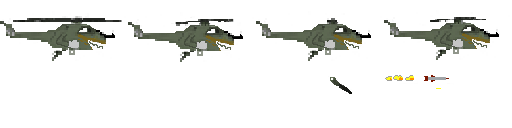
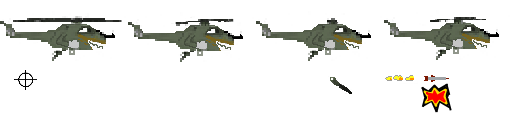
Missiles explode. Reticule added
Missiles now explode when they reach where they were targeted. Also, if
there is a balloon in a certain radius around the explosion, then the
balloon will pop. Reticule added that follows the player's mouse.

Changed region(s): [[0.8125, 0.6562, 0.9062, 0.875], [0.0312, 0.5625, 0.0938, 0.6875]]

diff --git a/heli_attack.js b/heli_attack.js
@@ -44,6 +44,8 @@ var Game = function (canvasId) {
   	this.targets = [];
   	this.missiles = [];
 	
+	this.mouse_x;
+	this.mouse_y;
 }
 	
 Game.prototype = {
@@ -55,10 +57,26 @@ Game.prototype = {
 		
 		this.heli.update(elapsedTime, this.inputState);
 		
+		// For each missle, update the position. If it explodes,
+		// check to see if there are any targets near it.
 		for(var i = 0; i < this.missiles.length; i++){
-			this.missiles[i].update();
+			
+			if(this.missiles[i].update()){
 
-			if(this.missiles[i].x > 800){
+				for(var j = 0; j < this.targets.length; j++){
+
+					// If the target is on the screen, then it can be hit. 
+					if(this.targets[j].x >= this.background.back_x && this.targets[j].x <= this.background.back_x + 800){
+
+						if(((this.missiles[i].x + 30) - (this.targets[j].x - this.background.back_x + 14)) * ((this.missiles[i].x + 30) - (this.targets[j].x - this.background.back_x + 14))
+						 + ((this.missiles[i].y + 15) - (this.targets[j].y + 15)) * ((this.missiles[i].y + 15) - (this.targets[j].y + 15)) <= 1200 * 4){
+							this.targets[j].exploding = true;
+							this.targets[j].number_of_frames = 0;
+						}
+					}
+
+				}
+
 				this.missiles.splice(i,1);
 			}
 		}
@@ -72,11 +90,16 @@ Game.prototype = {
 				}
 
 				for(var j = 0; j < this.missiles.length; j++){
+
+					if(this.targets.length == 0){
+						break;
+					}
+
 					// Check collision between missile and balloon.
 					if(this.targets[i].checkCollision(
 						this.missiles[j].x + (24 * Math.cos(this.missiles[j].angle)), 
 						this.missiles[j].y + (24 * Math.sin(this.missiles[j].angle)), this.background.back_x)){
-						this.missiles.splice(j,1);
+						//this.missiles.splice(j,1);
 					}
 				}
 
@@ -106,11 +129,21 @@ Game.prototype = {
 			this.targets[i].render(this.backBufferContext, this.background.back_x);	
 		}
 
+		// Draw Reticule.
+		this.renderReticule();
+
 		// Render GUI
 		this.gui.render();
 		
 		// Flip buffers
 		this.screenContext.drawImage(this.backBuffer, 0, 0);
+	},
+
+	renderReticule: function(){
+		this.backBufferContext.save();
+		this.backBufferContext.translate(-11, -9);
+		this.backBufferContext.drawImage(this.heli.sprite_sheet, 14, 70, 22, 19, this.mouse_x, this.mouse_y, 22, 19);
+		this.backBufferContext.restore();
 	},
 	
 	keyDown: function(e)
@@ -193,6 +226,7 @@ Game.prototype = {
 		window.onkeyup = function (e) { self.keyUp(e); };
 		window.oncontextmenu = function () { return false; }
 		window.onmousedown = function (e) { self.onemousedown(e);};
+		window.onmousemove = function (e) { self.mouse_x = e.clientX - self.canvasRect.left; self.mouse_y = e.clientY - self.canvasRect.top;};
 		//window.onmouseup = function (e) { self.mouseUp(e);};
 		
 		

diff --git a/missile.js b/missile.js
@@ -11,6 +11,7 @@ var Missile = function(x, y, mouse_x, mouse_y){
 	this.number_of_frames = 0;
 	this.sprite_sheet = new Image();
 	this.sprite_sheet.src = "helicopter_sheet.png";
+	this.explode = false;
 }
 
 Missile.prototype = {
@@ -20,23 +21,47 @@ Missile.prototype = {
 		context.save();
 		context.translate(this.x, this.y - 4);
 		context.rotate(this.angle);
-		context.drawImage(this.sprite_sheet, FLAME_FRAMES[this.frame_index][0], FLAME_FRAMES[this.frame_index][1], 
-			FLAME_FRAMES[this.frame_index][2], FLAME_FRAMES[this.frame_index][3], 
-			0 - FLAME_FRAMES[this.frame_index][4], 0 + FLAME_FRAMES[this.frame_index][5], 
-			FLAME_FRAMES[this.frame_index][2], FLAME_FRAMES[this.frame_index][3]);
-		context.drawImage(this.sprite_sheet, 423, 74, 26, 8, 0, 0, 26, 8);
+		if(this.explode){
+			context.drawImage(this.sprite_sheet, 419, 83, 33, 29, 0, 0, 33, 29);
+		}
+		else{
+			context.drawImage(this.sprite_sheet, FLAME_FRAMES[this.frame_index][0], FLAME_FRAMES[this.frame_index][1], 
+				FLAME_FRAMES[this.frame_index][2], FLAME_FRAMES[this.frame_index][3], 
+				0 - FLAME_FRAMES[this.frame_index][4], 0 + FLAME_FRAMES[this.frame_index][5], 
+				FLAME_FRAMES[this.frame_index][2], FLAME_FRAMES[this.frame_index][3]);
+			context.drawImage(this.sprite_sheet, 423, 74, 26, 8, 0, 0, 26, 8);
+		}
 		context.restore();
 	},
 
 	update: function(){
-		this.x += 5 * Math.cos(this.angle);
-		this.y += 5 * Math.sin(this.angle);
+		
 		this.number_of_frames++;
 
-		if(this.number_of_frames == 10){
-			this.frame_index = (this.frame_index + 1) % 3;
-			this.number_of_frames = 0;
+		if(this.explode)
+		{
+			// After the explode sprite has shown for a few frames then
+			// return true telling the game to delete the missile object.
+			if(this.number_of_frames == 10){
+				return true;
+			}
 		}
+		else{
+			this.x += 5 * Math.cos(this.angle);
+			this.y += 5 * Math.sin(this.angle);
+
+			if(this.number_of_frames == 10){
+				this.frame_index = (this.frame_index + 1) % 3;
+				this.number_of_frames = 0;
+			}
+
+			if(Math.abs(this.target_x - this.x) < 5 && Math.abs(this.target_y - this.y) < 5){
+				this.explode = true;
+				this.number_of_frames = 0;
+			}	
+		}
+
+		return false;
 	}
 
 }

diff --git a/bullet.js b/bullet.js
@@ -1,0 +1,20 @@
+
+var Bullet = function(x, y){
+	
+	this.x = x;
+	this.y = y;
+
+}
+
+Bullet.prototype = {
+
+	render: function(context){
+
+	}
+
+	update: function(){
+
+	
+	}
+
+}
